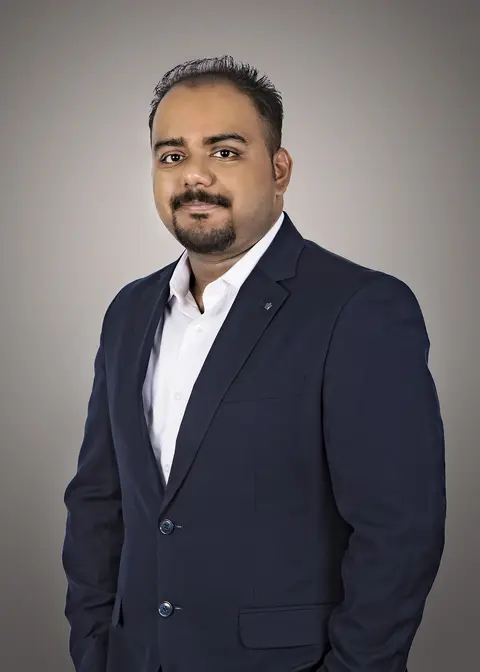
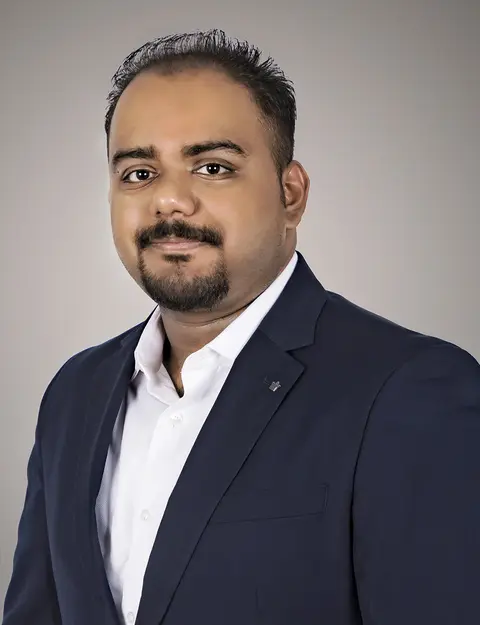
Deploying to gh-pages from @ sachinpc1993/sachinpc1993.github.io@0744a121bc690b2520e61457db14af66046a12f2 🚀

diff --git a/index.html b/index.html
@@ -1,5 +1,5 @@
 <!DOCTYPE html> <html lang="en"> <head> <meta http-equiv="Content-Type" content="text/html; charset=UTF-8"> <meta charset="utf-8"> <meta name="viewport" content="width=device-width, initial-scale=1, shrink-to-fit=no"> <meta http-equiv="X-UA-Compatible" content="IE=edge"> <title> Sachin Pathiyan Cherumanal </title> <meta name="author" content="Sachin Pathiyan Cherumanal"> <meta name="description" content="Researcher | Engineer | Divergent Thinker "> <meta name="keywords" content="jekyll, jekyll-theme, academic-website, portfolio-website"> <link rel="stylesheet" href="/assets/css/bootstrap.min.css?a4b3f509e79c54a512b890d73235ef04"> <link rel="stylesheet" href="https://cdn.jsdelivr.net/npm/mdbootstrap@4.20.0/css/mdb.min.css" integrity="sha256-jpjYvU3G3N6nrrBwXJoVEYI/0zw8htfFnhT9ljN3JJw=" crossorigin="anonymous"> <link defer rel="stylesheet" href="/assets/css/academicons.min.css?f0b7046b84e425c55f3463ac249818f5"> <link defer rel="stylesheet" href="/assets/css/scholar-icons.css?62b2ac103a88034e6882a5be5f3e2772"> <link defer rel="stylesheet" type="text/css" href="https://fonts.googleapis.com/css?family=Roboto:300,400,500,700|Roboto+Slab:100,300,400,500,700|Material+Icons&amp;display=swap"> <link defer rel="stylesheet" href="/assets/css/jekyll-pygments-themes-github.css?591dab5a4e56573bf4ef7fd332894c99" media="" id="highlight_theme_light"> <link rel="shortcut icon" href="/assets/img/sachin_logo.jpg?bccd6e850ae1d20b6a6a1153596efacc"> <link rel="stylesheet" href="/assets/css/main.css?d41d8cd98f00b204e9800998ecf8427e"> <link rel="canonical" href="https://sachinpc1993.github.io/"> <script src="/assets/js/theme.js?a81d82887dd692e91686b43de4542f18"></script> <link defer rel="stylesheet" href="/assets/css/jekyll-pygments-themes-native.css?5847e5ed4a4568527aa6cfab446049ca" media="none" id="highlight_theme_dark"> <script>
     initTheme();
-  </script> </head> <body class="fixed-top-nav "> <header> <nav id="navbar" class="navbar navbar-light navbar-expand-sm fixed-top" role="navigation"> <div class="container"> <button class="navbar-toggler collapsed ml-auto" type="button" data-toggle="collapse" data-target="#navbarNav" aria-controls="navbarNav" aria-expanded="false" aria-label="Toggle navigation"> <span class="sr-only">Toggle navigation</span> <span class="icon-bar top-bar"></span> <span class="icon-bar middle-bar"></span> <span class="icon-bar bottom-bar"></span> </button> <div class="collapse navbar-collapse text-right" id="navbarNav"> <ul class="navbar-nav ml-auto flex-nowrap"> <li class="nav-item active"> <a class="nav-link" href="/">About Me <span class="sr-only">(current)</span> </a> </li> <li class="nav-item "> <a class="nav-link" href="/publications/">Publications </a> </li> <li class="nav-item "> <a class="nav-link" href="/teaching/">teaching </a> </li> <li class="nav-item"> <button id="search-toggle" title="Search" onclick="openSearchModal()"> <span class="nav-link">ctrl k <i class="ti ti-search"></i></span> </button> </li> <li class="toggle-container"> <button id="light-toggle" title="Change theme"> <i class="ti ti-sun-moon" id="light-toggle-system"></i> <i class="ti ti-moon-filled" id="light-toggle-dark"></i> <i class="ti ti-sun-filled" id="light-toggle-light"></i> </button> </li> </ul> </div> </div> </nav> <progress id="progress" value="0"> <div class="progress-container"> <span class="progress-bar"></span> </div> </progress> </header> <div class="container mt-5" role="main"> <div class="post"> <header class="post-header"> <h1 class="post-title"> Sachin Pathiyan Cherumanal </h1> <p class="desc"></p> </header> <article> <div class="profile float-right"> <figure> <picture> <source class="responsive-img-srcset" srcset="/assets/img/prof_pic-480.webp 480w,/assets/img/prof_pic-800.webp 800w,/assets/img/prof_pic-1400.webp 1400w," type="image/webp" sizes="(min-width: 930px) 270.0px, (min-width: 576px) 30vw, 95vw"> <img src="/assets/img/prof_pic.jpg?35745d9399cf8330214feb41e089f409" class="img-fluid z-depth-1 rounded-circle" width="100%" height="auto" alt="prof_pic.jpg" loading="eager" onerror="this.onerror=null; $('.responsive-img-srcset').remove();"> </source></picture> </figure> </div> <div class="clearfix"> <p>I am a <strong>Researcher</strong> with expertise in <strong>Information Retrieval (IR), Natural Language Processing (NLP), and Conversational AI</strong>.</p> <p>I have <strong>3+ years of experience as a consulting Data Scientist</strong>, applying <strong>IR, NLP, and Generative AI</strong> to enterprise-scale conversational platforms, and <strong>3+ years as a Software Engineer</strong>. This combination of research and industry experience shapes how I approach problems—grounding solutions in <strong>scientific rigor</strong> while ensuring <strong>practical impact</strong>.</p> <p>I completed my <strong>PhD in Computer Science at RMIT University (2025)</strong>, where my research focused on developing and evaluating methods for the <strong>fair dissemination of multiple perspectives in intelligent question answering systems</strong>. My academic journey also includes a <strong>Master’s in Information Technology</strong> from Monash University, Melbourne, with a specialization in <strong>advanced machine learning</strong> and <strong>data-driven applications</strong>, and a <strong>Bachelor’s in Computer Science</strong> from Amrita University, India.</p> <h3 id="core-areas-of-expertise">Core Areas of Expertise</h3> <ul> <li>Evaluation of information access systems.</li> <li>Knowledge-augmented Conversational AI and its applications.</li> </ul> <p>At the foundation of my approach, I’m a <strong>divergent thinker</strong> who sees problems as puzzles to explore from every angle. By weaving together my experiences as a researcher, data scientist, and software engineer, I bring multiple perspectives to every project - turning ideas into impactful deliverables.</p> <p>If you’re curious about what I’m building or are interested in collaborating, let’s connect.</p> </div> <h2> <a href="/blog/" style="color: inherit">latest posts</a> </h2> <div class="news"> <div class="table-responsive"> <table class="table table-sm table-borderless"> <tr> <th scope="row" style="width: 20%">Aug 19, 2025</th> <td> <a class="news-title" href="https://www.linkedin.com/posts/damianospina_rmit-val-walert-ugcPost-7363572521972989952-8Z-B" target="_blank" rel="external nofollow noopener">LLM-Powered Conversational Search (Walert) at RMIT University - Case Studies in Data Science</a> <svg width="2rem" height="2rem" viewbox="0 0 40 40" xmlns="http://www.w3.org/2000/svg"> <path d="M17 13.5v6H5v-12h6m3-3h6v6m0-6-9 9" class="icon_svg-stroke" stroke="#999" stroke-width="1.5" fill="none" fill-rule="evenodd" stroke-linecap="round" stroke-linejoin="round"></path> </svg> </td> </tr> <tr> <th scope="row" style="width: 20%">Aug 11, 2025</th> <td> <a class="news-title" href="https://www.linkedin.com/posts/damianospina_walert-rmitopenday-activity-7360652500498067456-bkJK" target="_blank" rel="external nofollow noopener">Walert @ RMIT Open Day 2025</a> <svg width="2rem" height="2rem" viewbox="0 0 40 40" xmlns="http://www.w3.org/2000/svg"> <path d="M17 13.5v6H5v-12h6m3-3h6v6m0-6-9 9" class="icon_svg-stroke" stroke="#999" stroke-width="1.5" fill="none" fill-rule="evenodd" stroke-linecap="round" stroke-linejoin="round"></path> </svg> </td> </tr> <tr> <th scope="row" style="width: 20%">Jul 21, 2025</th> <td> <a class="news-title" href="/blog/2025/phd_archival/">PhD Completion !!!</a> </td> </tr> </table> </div> </div> <div class="social"> <div class="contact-icons"> <a href="https://github.com/sachinpc1993" title="GitHub" rel="external nofollow noopener" target="_blank"><i class="fa-brands fa-github"></i></a> <a href="https://www.linkedin.com/in/sachinpc" title="LinkedIn" rel="external nofollow noopener" target="_blank"><i class="fa-brands fa-linkedin"></i></a> <a href="https://medium.com/@sachinpc.1993" title="Medium" rel="external nofollow noopener" target="_blank"><i class="fa-brands fa-medium"></i></a> <a href="https://orcid.org/0000-0001-9982-3944" title="ORCID" rel="external nofollow noopener" target="_blank"><i class="ai ai-orcid"></i></a> <a href="https://publons.com/a/ACN-7042-2022/" title="Publons" rel="external nofollow noopener" target="_blank"><i class="ai ai-publons"></i></a> <a href="https://scholar.google.com/citations?user=HzcHNMsAAAAJ" title="Google Scholar" rel="external nofollow noopener" target="_blank"><i class="ai ai-google-scholar"></i></a> <a href="https://stackoverflow.com/users/8433160" title="Stackoverflow" rel="external nofollow noopener" target="_blank"><i class="fa-brands fa-stack-overflow"></i></a> <a href="https://twitter.com/SachinPC10" title="X" rel="external nofollow noopener" target="_blank"><i class="fa-brands fa-x-twitter"></i></a> </div> <div class="contact-note">Best way to reach me: LinkedIn. I usually reply within a day. </div> </div> </article> </div> </div> <footer class="fixed-bottom" role="contentinfo"> <div class="container mt-0"> © Copyright 2025 Sachin Pathiyan Cherumanal. Powered by <a href="https://jekyllrb.com/" target="_blank" rel="external nofollow noopener">Jekyll</a> with <a href="https://github.com/alshedivat/al-folio" rel="external nofollow noopener" target="_blank">al-folio</a> theme. Hosted by <a href="https://pages.github.com/" target="_blank" rel="external nofollow noopener">GitHub Pages</a>. Photos from <a href="https://unsplash.com" target="_blank" rel="external nofollow noopener">Unsplash</a>. Last updated: August 28, 2025. </div> </footer> <script src="https://cdn.jsdelivr.net/npm/jquery@3.6.0/dist/jquery.min.js" integrity="sha256-/xUj+3OJU5yExlq6GSYGSHk7tPXikynS7ogEvDej/m4=" crossorigin="anonymous"></script> <script src="/assets/js/bootstrap.bundle.min.js"></script> <script src="https://cdn.jsdelivr.net/npm/mdbootstrap@4.20.0/js/mdb.min.js" integrity="sha256-NdbiivsvWt7VYCt6hYNT3h/th9vSTL4EDWeGs5SN3DA=" crossorigin="anonymous"></script> <script defer src="https://cdn.jsdelivr.net/npm/masonry-layout@4.2.2/dist/masonry.pkgd.min.js" integrity="sha256-Nn1q/fx0H7SNLZMQ5Hw5JLaTRZp0yILA/FRexe19VdI=" crossorigin="anonymous"></script> <script defer src="https://cdn.jsdelivr.net/npm/imagesloaded@5.0.0/imagesloaded.pkgd.min.js" integrity="sha256-htrLFfZJ6v5udOG+3kNLINIKh2gvoKqwEhHYfTTMICc=" crossorigin="anonymous"></script> <script defer src="/assets/js/masonry.js?a0db7e5d5c70cc3252b3138b0c91dcaf" type="text/javascript"></script> <script defer src="https://cdn.jsdelivr.net/npm/medium-zoom@1.1.0/dist/medium-zoom.min.js" integrity="sha256-ZgMyDAIYDYGxbcpJcfUnYwNevG/xi9OHKaR/8GK+jWc=" crossorigin="anonymous"></script> <script defer src="/assets/js/zoom.js?85ddb88934d28b74e78031fd54cf8308"></script> <script src="/assets/js/no_defer.js?2781658a0a2b13ed609542042a859126"></script> <script defer src="/assets/js/common.js?e0514a05c5c95ac1a93a8dfd5249b92e"></script> <script defer src="/assets/js/copy_code.js?c8a01c11a92744d44b093fc3bda915df" type="text/javascript"></script> <script defer src="/assets/js/jupyter_new_tab.js?d9f17b6adc2311cbabd747f4538bb15f"></script> <script async src="https://d1bxh8uas1mnw7.cloudfront.net/assets/embed.js"></script> <script async src="https://badge.dimensions.ai/badge.js"></script> <script defer type="text/javascript" id="MathJax-script" src="https://cdn.jsdelivr.net/npm/mathjax@3.2.2/es5/tex-mml-chtml.js" integrity="sha256-MASABpB4tYktI2Oitl4t+78w/lyA+D7b/s9GEP0JOGI=" crossorigin="anonymous"></script> <script src="/assets/js/mathjax-setup.js?a5bb4e6a542c546dd929b24b8b236dfd"></script> <script defer src="https://cdnjs.cloudflare.com/polyfill/v3/polyfill.min.js?features=es6" crossorigin="anonymous"></script> <script defer src="/assets/js/progress-bar.js?2f30e0e6801ea8f5036fa66e1ab0a71a" type="text/javascript"></script> <script src="/assets/js/vanilla-back-to-top.min.js?f40d453793ff4f64e238e420181a1d17"></script> <script>
+  </script> </head> <body class="fixed-top-nav "> <header> <nav id="navbar" class="navbar navbar-light navbar-expand-sm fixed-top" role="navigation"> <div class="container"> <button class="navbar-toggler collapsed ml-auto" type="button" data-toggle="collapse" data-target="#navbarNav" aria-controls="navbarNav" aria-expanded="false" aria-label="Toggle navigation"> <span class="sr-only">Toggle navigation</span> <span class="icon-bar top-bar"></span> <span class="icon-bar middle-bar"></span> <span class="icon-bar bottom-bar"></span> </button> <div class="collapse navbar-collapse text-right" id="navbarNav"> <ul class="navbar-nav ml-auto flex-nowrap"> <li class="nav-item active"> <a class="nav-link" href="/">About Me <span class="sr-only">(current)</span> </a> </li> <li class="nav-item "> <a class="nav-link" href="/publications/">Publications </a> </li> <li class="nav-item "> <a class="nav-link" href="/teaching/">teaching </a> </li> <li class="nav-item"> <button id="search-toggle" title="Search" onclick="openSearchModal()"> <span class="nav-link">ctrl k <i class="ti ti-search"></i></span> </button> </li> <li class="toggle-container"> <button id="light-toggle" title="Change theme"> <i class="ti ti-sun-moon" id="light-toggle-system"></i> <i class="ti ti-moon-filled" id="light-toggle-dark"></i> <i class="ti ti-sun-filled" id="light-toggle-light"></i> </button> </li> </ul> </div> </div> </nav> <progress id="progress" value="0"> <div class="progress-container"> <span class="progress-bar"></span> </div> </progress> </header> <div class="container mt-5" role="main"> <div class="post"> <header class="post-header"> <h1 class="post-title"> Sachin Pathiyan Cherumanal </h1> <p class="desc"></p> </header> <article> <div class="profile float-right"> <figure> <picture> <source class="responsive-img-srcset" srcset="/assets/img/prof_pic-480.webp 480w,/assets/img/prof_pic-800.webp 800w,/assets/img/prof_pic-1400.webp 1400w," type="image/webp" sizes="(min-width: 930px) 270.0px, (min-width: 576px) 30vw, 95vw"> <img src="/assets/img/prof_pic.jpg?f5ac9021ee683002ad64681e7b2caa90" class="img-fluid z-depth-1 rounded-circle" width="100%" height="auto" alt="prof_pic.jpg" loading="eager" onerror="this.onerror=null; $('.responsive-img-srcset').remove();"> </source></picture> </figure> </div> <div class="clearfix"> <p>I am a <strong>Researcher</strong> with expertise in <strong>Information Retrieval (IR), Natural Language Processing (NLP), and Conversational AI</strong>.</p> <p>I have <strong>3+ years of experience as a consulting Data Scientist</strong>, applying <strong>IR, NLP, and Generative AI</strong> to enterprise-scale conversational platforms, and <strong>3+ years as a Software Engineer</strong>. This combination of research and industry experience shapes how I approach problems—grounding solutions in <strong>scientific rigor</strong> while ensuring <strong>practical impact</strong>.</p> <p>I completed my <strong>PhD in Computer Science at RMIT University (2025)</strong>, where my research focused on developing and evaluating methods for the <strong>fair dissemination of multiple perspectives in intelligent question answering systems</strong>. My academic journey also includes a <strong>Master’s in Information Technology</strong> from Monash University, Melbourne, with a specialization in <strong>advanced machine learning</strong> and <strong>data-driven applications</strong>, and a <strong>Bachelor’s in Computer Science</strong> from Amrita University, India.</p> <h3 id="core-areas-of-expertise">Core Areas of Expertise</h3> <ul> <li>Evaluation of information access systems.</li> <li>Knowledge-augmented Conversational AI and its applications.</li> </ul> <p>At the foundation of my approach, I’m a <strong>divergent thinker</strong> who sees problems as puzzles to explore from every angle. By weaving together my experiences as a researcher, data scientist, and software engineer, I bring multiple perspectives to every project - turning ideas into impactful deliverables.</p> <p>If you’re curious about what I’m building or are interested in collaborating, let’s connect.</p> </div> <h2> <a href="/blog/" style="color: inherit">latest posts</a> </h2> <div class="news"> <div class="table-responsive"> <table class="table table-sm table-borderless"> <tr> <th scope="row" style="width: 20%">Aug 19, 2025</th> <td> <a class="news-title" href="https://www.linkedin.com/posts/damianospina_rmit-val-walert-ugcPost-7363572521972989952-8Z-B" target="_blank" rel="external nofollow noopener">LLM-Powered Conversational Search (Walert) at RMIT University - Case Studies in Data Science</a> <svg width="2rem" height="2rem" viewbox="0 0 40 40" xmlns="http://www.w3.org/2000/svg"> <path d="M17 13.5v6H5v-12h6m3-3h6v6m0-6-9 9" class="icon_svg-stroke" stroke="#999" stroke-width="1.5" fill="none" fill-rule="evenodd" stroke-linecap="round" stroke-linejoin="round"></path> </svg> </td> </tr> <tr> <th scope="row" style="width: 20%">Aug 11, 2025</th> <td> <a class="news-title" href="https://www.linkedin.com/posts/damianospina_walert-rmitopenday-activity-7360652500498067456-bkJK" target="_blank" rel="external nofollow noopener">Walert @ RMIT Open Day 2025</a> <svg width="2rem" height="2rem" viewbox="0 0 40 40" xmlns="http://www.w3.org/2000/svg"> <path d="M17 13.5v6H5v-12h6m3-3h6v6m0-6-9 9" class="icon_svg-stroke" stroke="#999" stroke-width="1.5" fill="none" fill-rule="evenodd" stroke-linecap="round" stroke-linejoin="round"></path> </svg> </td> </tr> <tr> <th scope="row" style="width: 20%">Jul 21, 2025</th> <td> <a class="news-title" href="/blog/2025/phd_archival/">PhD Completion !!!</a> </td> </tr> </table> </div> </div> <div class="social"> <div class="contact-icons"> <a href="https://github.com/sachinpc1993" title="GitHub" rel="external nofollow noopener" target="_blank"><i class="fa-brands fa-github"></i></a> <a href="https://www.linkedin.com/in/sachinpc" title="LinkedIn" rel="external nofollow noopener" target="_blank"><i class="fa-brands fa-linkedin"></i></a> <a href="https://medium.com/@sachinpc.1993" title="Medium" rel="external nofollow noopener" target="_blank"><i class="fa-brands fa-medium"></i></a> <a href="https://orcid.org/0000-0001-9982-3944" title="ORCID" rel="external nofollow noopener" target="_blank"><i class="ai ai-orcid"></i></a> <a href="https://publons.com/a/ACN-7042-2022/" title="Publons" rel="external nofollow noopener" target="_blank"><i class="ai ai-publons"></i></a> <a href="https://scholar.google.com/citations?user=HzcHNMsAAAAJ" title="Google Scholar" rel="external nofollow noopener" target="_blank"><i class="ai ai-google-scholar"></i></a> <a href="https://stackoverflow.com/users/8433160" title="Stackoverflow" rel="external nofollow noopener" target="_blank"><i class="fa-brands fa-stack-overflow"></i></a> <a href="https://twitter.com/SachinPC10" title="X" rel="external nofollow noopener" target="_blank"><i class="fa-brands fa-x-twitter"></i></a> </div> <div class="contact-note">Best way to reach me: LinkedIn. I usually reply within a day. </div> </div> </article> </div> </div> <footer class="fixed-bottom" role="contentinfo"> <div class="container mt-0"> © Copyright 2025 Sachin Pathiyan Cherumanal. Powered by <a href="https://jekyllrb.com/" target="_blank" rel="external nofollow noopener">Jekyll</a> with <a href="https://github.com/alshedivat/al-folio" rel="external nofollow noopener" target="_blank">al-folio</a> theme. Hosted by <a href="https://pages.github.com/" target="_blank" rel="external nofollow noopener">GitHub Pages</a>. Photos from <a href="https://unsplash.com" target="_blank" rel="external nofollow noopener">Unsplash</a>. Last updated: August 28, 2025. </div> </footer> <script src="https://cdn.jsdelivr.net/npm/jquery@3.6.0/dist/jquery.min.js" integrity="sha256-/xUj+3OJU5yExlq6GSYGSHk7tPXikynS7ogEvDej/m4=" crossorigin="anonymous"></script> <script src="/assets/js/bootstrap.bundle.min.js"></script> <script src="https://cdn.jsdelivr.net/npm/mdbootstrap@4.20.0/js/mdb.min.js" integrity="sha256-NdbiivsvWt7VYCt6hYNT3h/th9vSTL4EDWeGs5SN3DA=" crossorigin="anonymous"></script> <script defer src="https://cdn.jsdelivr.net/npm/masonry-layout@4.2.2/dist/masonry.pkgd.min.js" integrity="sha256-Nn1q/fx0H7SNLZMQ5Hw5JLaTRZp0yILA/FRexe19VdI=" crossorigin="anonymous"></script> <script defer src="https://cdn.jsdelivr.net/npm/imagesloaded@5.0.0/imagesloaded.pkgd.min.js" integrity="sha256-htrLFfZJ6v5udOG+3kNLINIKh2gvoKqwEhHYfTTMICc=" crossorigin="anonymous"></script> <script defer src="/assets/js/masonry.js?a0db7e5d5c70cc3252b3138b0c91dcaf" type="text/javascript"></script> <script defer src="https://cdn.jsdelivr.net/npm/medium-zoom@1.1.0/dist/medium-zoom.min.js" integrity="sha256-ZgMyDAIYDYGxbcpJcfUnYwNevG/xi9OHKaR/8GK+jWc=" crossorigin="anonymous"></script> <script defer src="/assets/js/zoom.js?85ddb88934d28b74e78031fd54cf8308"></script> <script src="/assets/js/no_defer.js?2781658a0a2b13ed609542042a859126"></script> <script defer src="/assets/js/common.js?e0514a05c5c95ac1a93a8dfd5249b92e"></script> <script defer src="/assets/js/copy_code.js?c8a01c11a92744d44b093fc3bda915df" type="text/javascript"></script> <script defer src="/assets/js/jupyter_new_tab.js?d9f17b6adc2311cbabd747f4538bb15f"></script> <script async src="https://d1bxh8uas1mnw7.cloudfront.net/assets/embed.js"></script> <script async src="https://badge.dimensions.ai/badge.js"></script> <script defer type="text/javascript" id="MathJax-script" src="https://cdn.jsdelivr.net/npm/mathjax@3.2.2/es5/tex-mml-chtml.js" integrity="sha256-MASABpB4tYktI2Oitl4t+78w/lyA+D7b/s9GEP0JOGI=" crossorigin="anonymous"></script> <script src="/assets/js/mathjax-setup.js?a5bb4e6a542c546dd929b24b8b236dfd"></script> <script defer src="https://cdnjs.cloudflare.com/polyfill/v3/polyfill.min.js?features=es6" crossorigin="anonymous"></script> <script defer src="/assets/js/progress-bar.js?2f30e0e6801ea8f5036fa66e1ab0a71a" type="text/javascript"></script> <script src="/assets/js/vanilla-back-to-top.min.js?f40d453793ff4f64e238e420181a1d17"></script> <script>
     addBackToTop();
   </script> <script type="module" src="/assets/js/search/ninja-keys.min.js?a3446f084dcaecc5f75aa1757d087dcf"></script> <ninja-keys hidebreadcrumbs noautoloadmdicons placeholder="Type to start searching"></ninja-keys> <script src="/assets/js/search-setup.js?6c304f7b1992d4b60f7a07956e52f04a"></script> <script src="/assets/js/search-data.js"></script> <script src="/assets/js/shortcut-key.js?6f508d74becd347268a7f822bca7309d"></script> </body> </html>
